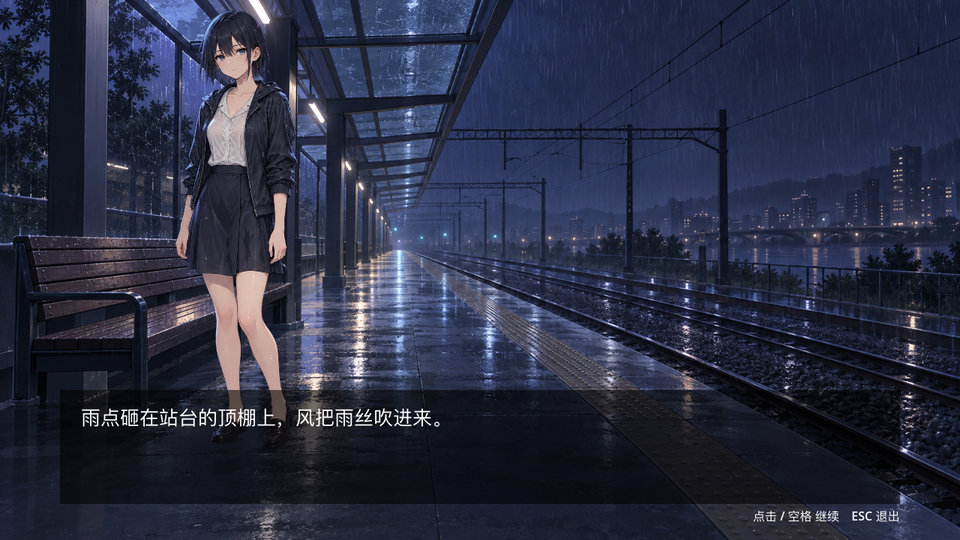
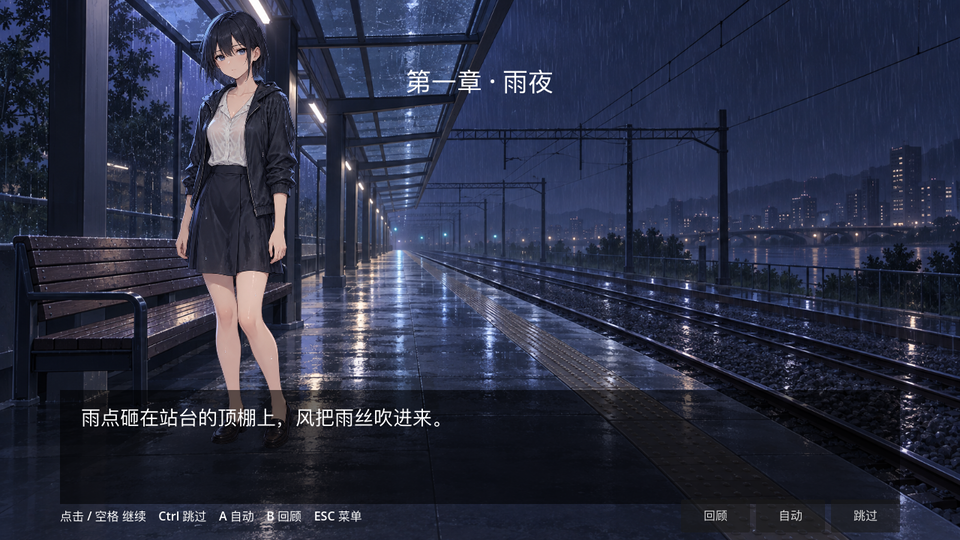
docs: 体验层设计文档（decision 0007）与截图刷新
- 0007-ux-layer：设置存储 / 已读记录（内容哈希行 ID）/ 跳过 / 自动 / 回顾语义与被否决方案
- AGENTS：services 增 settings/read_log；体验层约定与决策索引
- README / README_EN / vng-demo README：操作、亮点、验收清单、已知限制
- 实机截图重录：标题屏 5 按钮、剧情屏含章节卡与底栏

Changed region(s): [[0.7188, 0.9185, 0.9375, 1.0], [0.4062, 0.1185, 0.5938, 0.1778], [0.0625, 0.9481, 0.375, 0.9778]]

diff --git a/AGENTS.md b/AGENTS.md
@@ -54,11 +54,13 @@ AI Agent 驱动的视觉小说（VNG）开发框架。当前仓库是**框架开
 
 ## 确定性设施与 core 架构（P2）
 
-- `game/services/`：`VngServices` 统一持有 `rng / clock / input / events`。
-  - 生产：`VngServices.new(seed)`；测试：`VngServices.for_tests(seed)`（FakeClock，`advance(sec)` 显式推进）。
+- `game/services/`：`VngServices` 统一持有 `rng / clock / input / events / settings / read_log`。
+  - 生产：`VngServices.new(seed)`；测试：`VngServices.for_tests(seed)`（FakeClock，`advance(sec)` 显式推进；设置不自动读盘）。
   - 随机：`services.rng`（`set_seed / next_int / next_float / next_int_range / next_float_range / pick / shuffle`）。
   - 时间：`services.clock`（`now / tick`）；输入：`services.input`（`VngCommand` 工厂 + `runtime.pump()`）。
   - 事件：`services.events.emit_event / subscribe / history`（事件历史是 P3 trace golden 的基础）。
+  - 设置：`services.settings`（`VngSettings`，`user://settings.json`：音量 / 文字速度 / 自动间隔）。
+  - 已读：`services.read_log`（`VngReadLog`，内容哈希行 ID，按 `story_hash` 隔离，见 [decision 0007](docs/decision/0007-ux-layer.md)）。
 - **禁止**裸 `randi/randf/randi_range/randf_range/randomize` 与 `Time.*`、`OS.get_ticks_*`；`tools/lint` 会扫描 `game/` 并给出替代建议。
 - **GDScript 陷阱**：类方法名不要与全局函数重名（`randi`、`seed` 等）——类内部裸调用会解析为全局函数而非方法。RNG 服务因此使用 `next_*` 命名。
 - `game/core/` 零 Node 依赖（全部 RefCounted），headless 直接单测：
@@ -118,6 +120,7 @@ play.expect_trace("chapter1_secret")
 - 改动框架后必须两侧验证：仓库根 `tools/test` 与 `tools/demo test` 都绿。
 - 表现层约定：只订阅 `services.events` 与推送 `VngCommand`，不直接改 core 状态；剧情屏通过 `story_screen.setup_session(services, session, display_names)` 注入（正式入口），`setup(services, chapter, node, display_names)` 是单章便捷包装（boot smoke 沿用）。
 - 存档/菜单（见 [decision 0006](docs/decision/0006-multi-chapter-and-save.md)）：游戏内 ESC 菜单读写 `VngSaveStore` 槽位（`auto` + `slot1`~`slot3`），进入新章自动写 `auto`；标题屏「继续」读最近写入（`save_seq` 最大）的存档，「读取存档」可直接选任意槽位。存档 v2 带 `story_hash`，改剧本后旧档被拒绝。
+- 体验层（见 [decision 0007](docs/decision/0007-ux-layer.md)）：标题/ESC 菜单可开设置（音量 / 文字速度 / 自动间隔，即时生效并持久化）；底栏「回顾 / 自动 / 跳过」与快捷键 `B / A / Ctrl` 并行；跳过只跳**已读**（内容哈希行 ID，文本改动视为未读），遇未读行 / 选项 / 面板停；回顾为本次会话（跨章）内存记录。输入动作 `vng_skip / vng_auto / vng_backlog` 由 `story_screen.ensure_input_actions()` 运行时注册。
 - **表现层测试必须走真实输入路径**：用 `addons/vng_test/dsl/input_sim.gd` 的 `click(tree, pos)` / `press_action(tree, "ui_accept")`，不要直接调用场景内部方法；helper 处理 headless 窗口尺寸（1280×720）、局部坐标投递与 press/release（按钮在抬起时触发），见 [decision 0004](docs/decision/0004-presentation-testing.md)。
 - **场景类测试必须覆盖重入**（完成 → 销毁 → 重进）：事件订阅在 `_exit_tree` 解除；总线对失效 Callable 自动剪除，可用 `listener_count(type, true)` 断言原始槽位。
 - 修复类改动做"回退验证"：临时还原修复确认用例变红，防止测试失效。
@@ -171,10 +174,10 @@ vng-demo/               # 游戏工程（见「游戏工程」小节）
 
 ## 关键文档
 
-- 决策：[docs/decision/0001-testing-strategy-v1.md](docs/decision/0001-testing-strategy-v1.md)、[0002](docs/decision/0002-story-dsl.md)、[0003](docs/decision/0003-game-project-structure.md)、[0004](docs/decision/0004-presentation-testing.md)、[0005](docs/decision/0005-asset-pipeline.md)、[0006](docs/decision/0006-multi-chapter-and-save.md)
+- 决策：[docs/decision/0001-testing-strategy-v1.md](docs/decision/0001-testing-strategy-v1.md)、[0002](docs/decision/0002-story-dsl.md)、[0003](docs/decision/0003-game-project-structure.md)、[0004](docs/decision/0004-presentation-testing.md)、[0005](docs/decision/0005-asset-pipeline.md)、[0006](docs/decision/0006-multi-chapter-and-save.md)、[0007](docs/decision/0007-ux-layer.md)
 - 计划：[docs/plans/0001-test-framework-v1.md](docs/plans/0001-test-framework-v1.md)
 
 ## 当前阶段
 
-多章节运行时与存档/读档已完成：`END` 章末推进 / `STORY_END` 提前终结 / 会话跨章延续状态；存档 v2（`story_hash`/`play_time`）+ 自动档 + 3 手动槽 + 标题「继续」；vng-demo 为双章剧本《雨夜车站》。
-下一步候选：真实音频素材投放（3 项待投放）、`vng-demo` 导出配置、场景语义断言库、回顾/跳过等体验补全。
+多章节运行时、存档/读档与体验层已完成：`END` 章末推进 / `STORY_END` / 存档 v2（自动 + 3 手动槽 + 标题继续/选档）；设置（音量 / 文字速度 / 自动间隔）、跳过已读、自动播放、回顾（本次会话）；vng-demo 为双章剧本《雨夜车站》。
+下一步候选：TTS 配音管线（行 ID 已就绪，可对接 TTS-WorkSpace）、真实音频素材投放（3 项）、`vng-demo` 导出配置、CI（GitHub Actions）。

diff --git a/docs/decision/0007-ux-layer.md b/docs/decision/0007-ux-layer.md
@@ -1,0 +1,64 @@
+# 0007 · 体验层（设置 / 已读 / 跳过 / 自动 / 回顾）
+
+- 状态：已接受
+- 日期：2026-10-14
+- 关联决策：[0001](0001-testing-strategy-v1.md)、[0003](0003-game-project-structure.md)、[0004](0004-presentation-testing.md)、[0006](0006-multi-chapter-and-save.md)
+
+## 背景
+
+多章节与存档落地后，长内容试玩暴露出 VNG 基础体验缺口：不能调文字速度与音量、重复内容无法快进、无法自动播放、不能回看已读对白。这些能力同时影响用户试玩效率与后续配音管线（已读/语音都需要稳定的"行 ID"）。
+
+## 决策
+
+### 1. 设置存储（VngSettings）
+
+- 位置 `game/services/settings_store.gd`；JSON 持久化，默认 `user://settings.json`（测试可注入路径）；
+- 字段：`bgm_volume` / `sfx_volume`（0–1）、`text_speed`（字/秒，`<= 0` = 瞬间）、`auto_delay`（行完整显示后的等待秒数）；
+- 与存档分离（设置跨存档全局有效）；文件损坏/缺字段回退默认值并静默解析；越界值夹取；
+- 改动即刻写入并即时生效（音量应用到 `AudioDirector`，文字速度应用到打字机）。
+
+### 2. 已读记录（VngReadLog）
+
+- 位置 `game/services/read_log.gd`；按 `story_hash` 隔离，持久化 `user://read/<story_hash>.json`；
+- **行 ID 采用内容哈希**：`sha256(who + "\n" + text.strip_edges())` —— 文本改动即视为未读，插入/重排不漂移；
+- 显示即标记（对白与旁白，含读档重绘的行）；容量上限 5000，超限丢弃最旧；
+- 行 ID 方案与后续配音管线（TTS 内容寻址）天然兼容。
+
+### 3. 跳过已读
+
+- 触发：按住 `Ctrl` 或按住底栏「跳过」按钮；松开即停；
+- 只跳过**已读**行；遇未读行 / 选项 / 菜单 / 回顾 / 设置即停；
+- 打字中的已读行先补全再推进。
+
+### 4. 自动播放
+
+- 触发：`A` 或底栏「自动」开关（按钮高亮表示开启）；
+- 行完整显示后等待 `auto_delay` 再推进；选项处停下（选择后恢复）；
+- 与跳过同时触发时跳过优先。
+
+### 5. 回顾（backlog）
+
+- 触发：`B`、底栏「回顾」或面板关闭键；
+- 记录**本次会话（跨章）**：对白 / 旁白 / 选项选择 / 章节分隔；上限 400 条，超出丢最旧；
+- 面板可滚动、打开时自动滚到底；**不持久化**（重启清空）。
+
+### 6. 输入与入口约定
+
+- 动作 `vng_skip` / `vng_auto` / `vng_backlog` 由表现层运行时注册（`story_screen.ensure_input_actions()`），不写进 `project.godot`；测试用 `InputEventAction` 直接驱动；
+- 底栏按钮（回顾 / 自动 / 跳过）与快捷键并行，鼠标与键盘等价；
+- 设置入口：标题屏「设置」+ 游戏内 ESC 菜单「设置」；面板即时生效并持久化。
+
+## 后果
+
+- 试玩长内容不再需要重复点击已读文本；改剧本后只有**文本变化**的行重新变为未读；
+- 行 ID 成为"已读 / 语音 / 未来跳过已读配音"的公共主键，配音管线可直接复用；
+- 回顾不持久化、无"跳到下一选项"专用模式，属于当前有意边界，按需再扩展。
+
+## 被否决方案
+
+| 方案 | 否决原因 |
+| --- | --- |
+| 位置型行 ID（`chapter.node.index`） | 插入/重排台词后漂移，已读记录错位 |
+| 设置并入存档 | 设置应跨存档全局生效 |
+| 回顾持久化到 `user://` | 容量与清理策略成本高，V1 无刚需 |
+| 输入动作写进 `project.godot` | 框架/游戏两侧需同步维护，测试注入更繁琐；运行时注册即可 |

diff --git a/vng-demo/README.md b/vng-demo/README.md
@@ -14,9 +14,9 @@ tools/demo story build  # 修改 .vns 后重新编译
 
 ```
 vng-demo/
-├── game/presentation/   # 表现层：main / title_screen / story_screen / menu_overlay / stage / audio_director
+├── game/presentation/   # 表现层：main / title_screen / story_screen / menu_overlay / settings_panel / backlog_panel / stage / audio_director
 ├── game/story/          # 剧本：story.json 清单 + chapter1.vns + chapter2.vns（编译产物 compiled/）
-├── tests/               # 游戏测试：story 路线 + trace golden + 存档/菜单 + boot smoke
+├── tests/               # 游戏测试：story 路线 + trace golden + 存档/菜单 + 体验层 + boot smoke
 ├── assets/audio/        # 音频资源目录（切片阶段为空，接口已留）
 ├── addons/              # ← 框架镜像（tools/demo sync 生成，勿手改）
 └── game/core,game/services/  # ← 框架镜像（同上）
@@ -28,9 +28,13 @@ vng-demo/
 
 - 左键 / 空格 / 回车：推进对白（打字中先补全当前行）
 - 点击选项按钮：选择分支（键盘空格作用于当前焦点按钮）
-- ESC：打开/关闭菜单（返回游戏 / 保存游戏 / 读取游戏 / 回到标题）
+- ESC：打开/关闭菜单（返回 / 保存 / 读取 / 设置 / 回到标题）
+- `Ctrl`（按住）：跳过**已读**；遇未读行 / 选项 / 面板即停（底栏「跳过」同效）
+- `A`：自动播放开关（底栏「自动」高亮；选项前停）
+- `B`：回顾（本次会话跨章记录，含选项选择；上限 400 条）
 - 标题屏「继续游戏」：读取**最近写入**的存档（无存档时隐藏）
 - 标题屏「读取存档」：直接选择具体槽位（自动 / 存档 1–3）
+- 标题屏 / ESC 菜单「设置」：BGM / 音效音量、文字速度（慢/标准/快/瞬间）、自动间隔；即时生效并持久化
 
 ## 手动验收清单（第一条可玩切片）
 
@@ -43,6 +47,10 @@ vng-demo/
 - [ ] 游戏中 ESC 打开菜单；「保存游戏」写入存档 1，槽位显示 章节·时长·台词预览
 - [ ] 「回到标题」→「继续游戏」读回最近写入的档；「读取存档」可直接选任意槽位
 - [ ] 「读取游戏」可载入自动档（进入章节时自动写入）
+- [ ] 第二轮游玩：按住 `Ctrl` 可快进已读对白，遇新对白停下；底栏「跳过」同效
+- [ ] 底栏「自动」开启后自动推进，到选项停；再点关闭
+- [ ] `B` 或底栏「回顾」：能看到本轮对白/旁白/选项与章节标题，可滚动，ESC 关闭
+- [ ] 设置面板：文字速度改为「瞬间」后立即整行显示；音量滑到 0 后音频静音（音频投放后验证）
 - [ ] 结束后淡出回到标题，可再次开始；全程无脚本报错
 - [ ] `tools/demo test` 全绿；`tools/demo story check` 通过
 
@@ -66,5 +74,6 @@ vng-demo/assets/
 ## 已知限制（切片范围外）
 
 - 占位美术为纯色块 + 标签（真实背景/立绘已投放；音频缺失时静默）
-- 存档固定为 自动 + 3 手动槽；无设置界面（文字速度/音量）
-- 无回顾/跳过已读等 VNG 常见便捷功能
+- 存档固定为 自动 + 3 手动槽；设置仅含 音量 / 文字速度 / 自动间隔（无窗口/按键重映射）
+- 回顾不持久化（重启清空）、无「跳到下一选项」专用模式
+- 无语音（TTS 配音管线为下一步候选）

diff --git a/README_EN.md b/README_EN.md
@@ -21,6 +21,7 @@ An agent's iteration loop is only as good as its feedback: **signal quality × s
 - **Playthrough DSL + trace goldens**: semantic event traces (no line numbers or timestamps); updates require explicit approval and are audit-logged
 - **Deterministic core**: Rng / Clock / InputHub / EventBus via service injection; core has zero Node dependencies and is unit-testable headless
 - **Multi-chapter & saves**: `END` advances to the next chapter, `STORY_END` finishes early; session carries state across chapters; save v2 (`story_hash` + `play_time`), auto + 3 manual slots, "Continue" on the title screen
+- **UX layer**: settings (volumes / text speed / auto interval, persisted); skip-read (content-hash line ids, text edits re-mark as unread); auto-play; backlog (session-wide, including choices)
 - **Presentation tests via real input paths**: mouse/keyboard simulation goes through the actual GUI picking and input routing; scene re-entry is covered by regression tests
 - **Asset pipeline**: works with zero assets, drop-in effect without re-import; `tools/demo assets` lists what is still missing
 
@@ -30,9 +31,9 @@ Requirements: **Godot 4.7+** (macOS supported today); set `GODOT_BIN` to point a
 
 ```bash
 tools/test --fast          # framework unit tests (seconds)
-tools/test                 # full framework suite: 158 tests (unit / meta contracts / story E2E)
-tools/demo run             # play the demo game "Rainy Night Station" (two chapters + saves)
-tools/demo test            # game-side tests: 22 (story / saves / smoke / asset pipeline)
+tools/test                 # full framework suite: 168 tests (unit / meta contracts / story E2E)
+tools/demo run             # play the demo game "Rainy Night Station" (two chapters + saves + UX)
+tools/demo test            # game-side tests: 28 (story / saves / UX / smoke / asset pipeline)
 tools/lint                 # formatting + static checks + non-deterministic API scan
 ```
 
@@ -64,9 +65,9 @@ The framework/game relationship and mirroring mechanism are described in [decisi
 
 ## Status
 
-- "Rainy Night Station" is playable across two chapters ([title screen](docs/assets/demo-title.png)): title → chapter 1 branches → auto-advance into the chapter 2 epilogue → back to title; the ESC menu supports save/load/back-to-title, and the title screen offers "Continue" (most recently written save) or "Load" (pick any slot)
-- Tests: 158 framework + 22 game tests, all green
-- Next candidates: real audio drop-in (3 pending), `vng-demo` export presets, scene-semantic assertion library, backlog/skip polish
+- "Rainy Night Station" is playable across two chapters ([title screen](docs/assets/demo-title.png)): title → chapter 1 branches → auto-advance into the chapter 2 epilogue → back to title; saves (continue / slot picker) and the UX layer (settings / skip-read / auto / backlog) are in place
+- Tests: 168 framework + 28 game tests, all green
+- Next candidates: TTS voice pipeline (line ids ready), real audio drop-in (3 pending), `vng-demo` export presets, CI
 
 ## License
 

diff --git a/README.md b/README.md
@@ -21,6 +21,7 @@ Agent 的迭代闭环质量 = **反馈信号的质量 × 速度**。不可复现
 - **playthrough DSL + trace golden**：语义事件轨迹（不含行号与时间戳），更新必须显式批准并写审计日志
 - **确定性 core**：Rng / Clock / InputHub / EventBus 服务注入；core 零 Node 依赖，headless 直接单测
 - **多章节与存档**：`END` 章末自动推进 / `STORY_END` 提前终结；会话跨章延续状态；存档 v2（`story_hash` + `play_time`）、自动 + 3 手动槽、标题「继续」
+- **体验层**：设置（音量 / 文字速度 / 自动间隔，持久化）；跳过已读（内容哈希行 ID，文本改动即未读）；自动播放；回顾（会话内跨章，含选项）
 - **表现层测试走真实输入路径**：鼠标/键盘仿真经过真实 GUI 拾取与输入路由；场景重入有回归测试
 - **资源管线**：零素材可用、投放即生效（免导入）；`tools/demo assets` 列出待投放清单
 
@@ -30,9 +31,9 @@ Agent 的迭代闭环质量 = **反馈信号的质量 × 速度**。不可复现
 
 ```bash
 tools/test --fast          # 框架单元测试（秒级）
-tools/test                 # 全量：框架 158 项（unit / meta 契约 / story E2E）
-tools/demo run             # 体验示例游戏《雨夜车站》（双章 + 存档）
-tools/demo test            # 游戏侧 22 项（story / 存档 / smoke / 资源管线）
+tools/test                 # 全量：框架 168 项（unit / meta 契约 / story E2E）
+tools/demo run             # 体验示例游戏《雨夜车站》（双章 + 存档 + 体验层）
+tools/demo test            # 游戏侧 28 项（story / 存档 / 体验 / smoke / 资源管线）
 tools/lint                 # 格式 + 静态 + 非确定性 API 扫描
 ```
 
@@ -64,9 +65,9 @@ docs/              # 决策记录（ADR）与实施计划
 
 ## 当前状态
 
-- 《雨夜车站》双章可玩（[标题画面](docs/assets/demo-title.png)）：标题 → 第一章分支 → 章末自动进入第二章《清晨》尾声 → 回标题；ESC 菜单支持 存档/读档/回标题，标题屏可「继续游戏」（最近写入）或「读取存档」（任选槽位）
-- 测试：框架 158 项、游戏 22 项，全绿
-- 下一步候选：真实音频素材投放（3 项）、`vng-demo` 导出配置、场景语义断言库、回顾/跳过等体验补全
+- 《雨夜车站》双章可玩（[标题画面](docs/assets/demo-title.png)）：标题 → 第一章分支 → 章末自动进入第二章《清晨》尾声 → 回标题；存档（继续 / 选档）与体验层（设置 / 跳过已读 / 自动 / 回顾）就绪
+- 测试：框架 168 项、游戏 28 项，全绿
+- 下一步候选：TTS 配音管线（行 ID 已就绪）、真实音频素材投放（3 项）、`vng-demo` 导出配置、CI
 
 ## 许可
 
